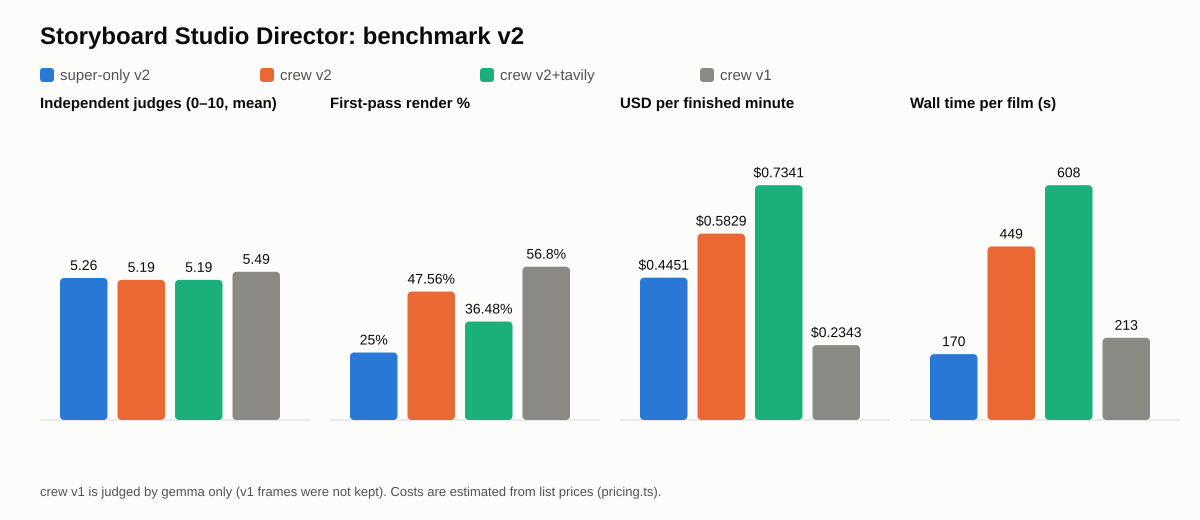
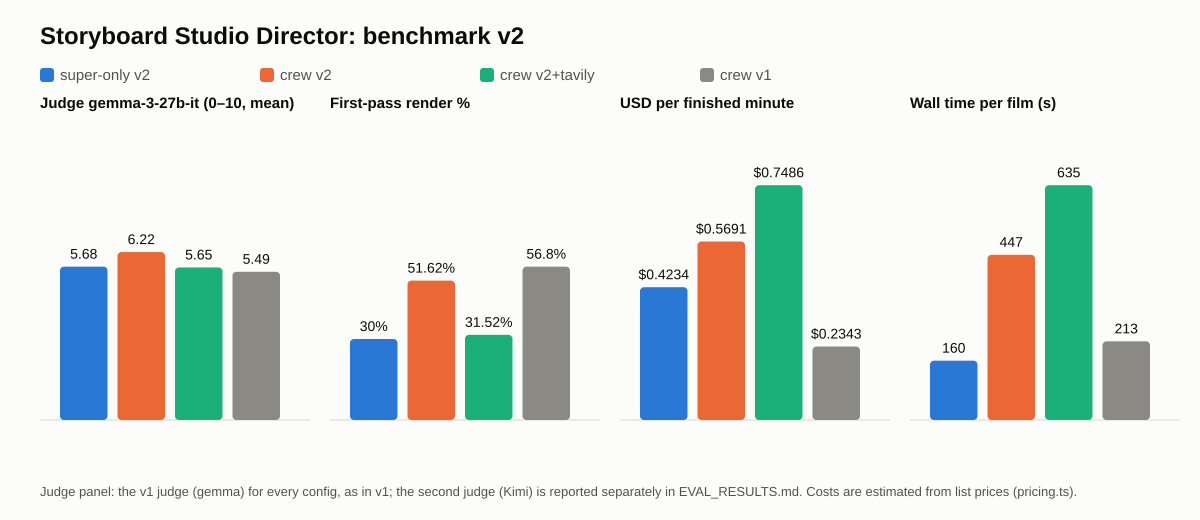
chore(eval): bench v2 complete: 30 of 30 runs on frozen 394a797 (report, chart, rows)
Claude-Session: https://claude.ai/code/session_01XowuYW5WQyZVayGQKumT27

diff --git a/docs/hackathon/EVAL_RESULTS.md b/docs/hackathon/EVAL_RESULTS.md
@@ -1,6 +1,6 @@
 # Director benchmark v2: results
 
-Generated 2026-10-15T03:15:18.628Z against `https://studio-production-049c.up.railway.app` · provider **nemotron** · eval commit `394a797` · 23 v2 runs · raw data: [eval/v2/runs.csv](eval/v2/runs.csv), [eval/v2/runs.jsonl](eval/v2/runs.jsonl). v1 results: [EVAL_RESULTS_V1.md](EVAL_RESULTS_V1.md).
+Generated 2026-10-16T02:17:58.253Z against `https://studio-production-049c.up.railway.app` · provider **nemotron** · eval commit `394a797` · 30 v2 runs · raw data: [eval/v2/runs.csv](eval/v2/runs.csv), [eval/v2/runs.jsonl](eval/v2/runs.jsonl). v1 results: [EVAL_RESULTS_V1.md](EVAL_RESULTS_V1.md).
 
 Same 10 prompts and the same judge prompt as v1. Configs: **super-only v2** = every role on Nemotron Super, no critic · **crew v2** = Ultra plans, Super draws, the hybrid critic (a VLM looks, Nemotron Nano scores, D33) with the floor, Nano edits · **crew v2+tavily** = crew v2 plus research (only when the server has a Tavily key) · **crew v1** = the v1 rows, reused, not re-run (judged by gemma only).
 
@@ -10,19 +10,19 @@ Same 10 prompts and the same judge prompt as v1. Configs: **super-only v2** = ev
 
 | Target | Goal | Measured | |
 |---|---|---|---|
-| Judge mean, crew v2 (gemma-3-27b-it, the v1 judge; crew v1 = 5.49) | ≥ 6.5 | 6.17 | ❌ missed |
-| Second judge, crew v2 (Kimi-K3, reported separately) | — | 4.21 | for information |
-| Crew v2 wins vs super-only v2 (paired, gemma-3-27b-it, ±0.25 = tie) | ≥ 8/10 | 5/7 | ❌ missed |
-| Critic uplift, independently judged | ≥ +0.5 | +0.44 | ❌ missed |
-| USD per finished minute, crew v2 | ≤ $0.40 | $0.583 | ❌ missed |
+| Judge mean, crew v2 (gemma-3-27b-it, the v1 judge; crew v1 = 5.49) | ≥ 6.5 | 6.22 | ❌ missed |
+| Second judge, crew v2 (Kimi-K3, reported separately) | — | 4.38 | for information |
+| Crew v2 wins vs super-only v2 (paired, gemma-3-27b-it, ±0.25 = tie) | ≥ 8/10 | 7/9 | ❌ missed |
+| Critic uplift, independently judged | ≥ +0.5 | +0.5 | ✅ met |
+| USD per finished minute, crew v2 | ≤ $0.40 | $0.569 | ❌ missed |
 
 ## By config
 
 | Config | Runs (done) | Mean of both judges (v2 only) |  Judge gemma-3-27b-it | Judge Kimi-K3 | First-pass % | Repairs / shot | Critic self-score | Uplift (judged) [shots] | Gate failures | Below floor | Wall s | Tokens / run | USD total | USD / finished min |
 |---|---|---|---|---|---|---|---|---|---|---|---|---|---|---|
-| super-only v2 | 8 (8) | 5.26 |  5.98 | 4.55 | 25 | 1.85 | — | — [0] | 6 | 0 | 170.49 | 60,467 | $0.328 | $0.445 |
-| crew v2 | 8 (7) | 5.19 |  6.17 | 4.21 | 47.56 | 1.71 | 4.91 → 5.48 | +0.44 [9] | 8 | 25 | 449.02 | 245,818 | $1.282 | $0.583 |
-| crew v2+tavily | 7 (5) | 5.19 |  6.13 | 4.25 | 36.48 | 2.38 | 4.76 → 5.44 | +0.42 [12] | 11 | 21 | 607.5 | 334,146 | $1.561 | $0.734 |
+| super-only v2 | 10 (10) | 4.96 |  5.68 | 4.24 | 30 | 1.58 | — | — [0] | 6 | 0 | 160.42 | 56,076 | $0.379 | $0.423 |
+| crew v2 | 10 (9) | 5.3 |  6.22 | 4.38 | 51.62 | 1.47 | 5.27 → 5.81 | +0.5 [13] | 8 | 28 | 446.74 | 245,588 | $1.595 | $0.569 |
+| crew v2+tavily | 10 (7) | 4.83 |  5.65 | 4.01 | 31.52 | 2.55 | 4.32 → 4.97 | +0.41 [16] | 15 | 30 | 634.92 | 348,583 | $2.263 | $0.749 |
 | crew v1 | 10 (10) | — |  5.49 | — | 56.8 | 1.53 | 6.92 → 7.07 | — [0] | 0 | 0 | 212.68 | 124,066 | $0.864 | $0.234 |
 
 ![Director benchmark v2 chart](eval/v2/chart.png)
@@ -33,20 +33,20 @@ Per config and judge: n = runs that judge scored, mean ± sample SD and the rang
 
 | Config | Judge | n | Mean | SD | Min–max |
 |---|---|---|---|---|---|
-| super-only v2 | gemma-3-27b-it (headline) | 8 | 5.98 | 1.58 | 4–8 |
-| super-only v2 | Kimi-K3 | 8 | 4.55 | 1.52 | 2.4–7 |
-| crew v2 | gemma-3-27b-it (headline) | 7 | 6.17 | 0.62 | 5–6.75 |
-| crew v2 | Kimi-K3 | 7 | 4.21 | 0.82 | 2.5–4.86 |
-| crew v2+tavily | gemma-3-27b-it (headline) | 6 | 6.13 | 0.49 | 5.6–6.8 |
-| crew v2+tavily | Kimi-K3 | 6 | 4.25 | 0.43 | 3.5–4.71 |
+| super-only v2 | gemma-3-27b-it (headline) | 10 | 5.68 | 1.68 | 3–8 |
+| super-only v2 | Kimi-K3 | 10 | 4.24 | 1.56 | 2–7 |
+| crew v2 | gemma-3-27b-it (headline) | 9 | 6.22 | 0.54 | 5–6.75 |
+| crew v2 | Kimi-K3 | 9 | 4.38 | 0.79 | 2.5–5 |
+| crew v2+tavily | gemma-3-27b-it (headline) | 9 | 5.65 | 1.1 | 3.5–6.8 |
+| crew v2+tavily | Kimi-K3 | 9 | 4.01 | 0.87 | 2–4.83 |
 | crew v1 | gemma-3-27b-it (headline) | 10 | 5.49 | 0.89 | 4–7 |
 | crew v1 | Kimi-K3 | 0 | — | — | — |
 
 | Config | Runs | Done | Failed (status) | Wall s mean | Wall s total | USD total |
 |---|---|---|---|---|---|---|
-| super-only v2 | 8 | 8 | 0 | 170.49 | 1363.91 | $0.328 |
-| crew v2 | 8 | 7 | 1 (vi-ao-dai: failed) | 449.02 | 3592.18 | $1.282 |
-| crew v2+tavily | 7 | 5 | 2 (en-robot-garden: failed; vi-ao-dai: budget_exceeded) | 607.5 | 4252.48 | $1.561 |
+| super-only v2 | 10 | 10 | 0 | 160.42 | 1604.19 | $0.379 |
+| crew v2 | 10 | 9 | 1 (vi-ao-dai: failed) | 446.74 | 4467.41 | $1.595 |
+| crew v2+tavily | 10 | 7 | 3 (en-robot-garden: failed; vi-ao-dai: budget_exceeded; ja-sakura: budget_exceeded) | 634.92 | 6349.18 | $2.263 |
 | crew v1 | 10 | 10 | 0 | 212.68 | 2126.79 | $0.864 |
 
 ## Reproduce
@@ -59,7 +59,7 @@ The bench refuses to start unless the server reports the eval commit, stops if i
 
 ## Paired: crew v2 vs super-only v2 (judge gemma-3-27b-it)
 
-crew v2 − super-only v2 on the same prompt: mean **+0.34**; crew v2 is better on **5**, worse on **2**, and ties (±0.25) on **0** of 7 prompts. 
+crew v2 − super-only v2 on the same prompt: mean **+0.68**; crew v2 is better on **7**, worse on **2**, and ties (±0.25) on **0** of 9 prompts. 
 
 | Prompt | super-only v2 | crew v2 | Δ |
 |---|---|---|---|
@@ -70,10 +70,12 @@ crew v2 − super-only v2 on the same prompt: mean **+0.34**; crew v2 is better 
 | vi-trau-vang | 5.6 | 6.2 | +0.6 |
 | vi-cho-noi | 8 | 6.71 | -1.29 |
 | ja-umbrella | 6 | 6.75 | +0.75 |
+| ja-tanuki | 6 | 6.33 | +0.33 |
+| ja-sakura | 3 | 6.43 | +3.43 |
 
 ## Paired: crew v2 vs super-only v2 (second judge Kimi-K3, reported separately)
 
-crew v2 − super-only v2 on the same prompt: mean **-0.28**; crew v2 is better on **2**, worse on **3**, and ties (±0.25) on **2** of 7 prompts. 
+crew v2 − super-only v2 on the same prompt: mean **+0.23**; crew v2 is better on **4**, worse on **3**, and ties (±0.25) on **2** of 9 prompts. 
 
 | Prompt | super-only v2 | crew v2 | Δ |
 |---|---|---|---|
@@ -84,10 +86,12 @@ crew v2 − super-only v2 on the same prompt: mean **-0.28**; crew v2 is better 
 | vi-trau-vang | 4 | 4.2 | +0.2 |
 | vi-cho-noi | 5 | 4.86 | -0.14 |
 | ja-umbrella | 6 | 4.5 | -1.5 |
+| ja-tanuki | 4 | 5 | +1 |
+| ja-sakura | 2 | 5 | +3 |
 
 ## Paired: crew v2 vs crew v1 (judge gemma-3-27b-it only, as in v1)
 
-crew v2 − crew v1 on the same prompt: mean **+0.64**; crew v2 is better on **4**, worse on **2**, and ties (±0.25) on **1** of 7 prompts. Same prompts, same judge, same judge prompt; v1 frames were not kept, so the second judge can't score v1.
+crew v2 − crew v1 on the same prompt: mean **+0.77**; crew v2 is better on **6**, worse on **2**, and ties (±0.25) on **1** of 9 prompts. Same prompts, same judge, same judge prompt; v1 frames were not kept, so the second judge can't score v1.
 
 | Prompt | crew v1 | crew v2 | Δ |
 |---|---|---|---|
@@ -98,6 +102,8 @@ crew v2 − crew v1 on the same prompt: mean **+0.64**; crew v2 is better on **4
 | vi-trau-vang | 7 | 6.2 | -0.8 |
 | vi-cho-noi | 4.71 | 6.71 | +2 |
 | ja-umbrella | 5.5 | 6.75 | +1.25 |
+| ja-tanuki | 4.83 | 6.33 | +1.5 |
+| ja-sakura | 5.5 | 6.43 | +0.93 |
 
 ## Per run
 
@@ -126,6 +132,13 @@ crew v2 − crew v1 on the same prompt: mean **+0.64**; crew v2 is better on **4
 | v2 | crew v2+tavily | vi-cho-noi | done | 7/7 | 5.64 |  6.57 | 4.71 | 42.86 | 3.57 | 5.29 → 6.43 | +0.5 [4] | 2 | 552 | $0.2967 |
 | v2 | super-only v2 | ja-umbrella | done | 1/1 | 6 |  6 | 6 | 0 | 3 | — → — | — [0] | 0 | 153.88 | $0.0343 |
 | v2 | crew v2 | ja-umbrella | done | 4/4 | 5.63 |  6.75 | 4.5 | 100 | 0 | 5.75 → 6.25 | +0.5 [1] | 0 | 573.46 | $0.1448 |
+| v2 | crew v2+tavily | ja-umbrella | done | 4/4 | 4 |  4.25 | 3.75 | 25 | 4.5 | 3 → 3.75 | +1 [2] | 1 | 677.16 | $0.2236 |
+| v2 | super-only v2 | ja-tanuki | done | 1/1 | 5 |  6 | 4 | 0 | 1 | — → — | — [0] | 0 | 133.42 | $0.0286 |
+| v2 | crew v2 | ja-tanuki | done | 6/6 | 5.67 |  6.33 | 5 | 50 | 0.5 | 7.33 → 7.67 | +0.5 [1] | 0 | 317.33 | $0.1156 |
+| v2 | crew v2+tavily | ja-tanuki | done | 6/6 | 5.58 |  6.33 | 4.83 | 16.67 | 4 | 5.33 → 5.83 | +0 [1] | 2 | 528.33 | $0.2133 |
+| v2 | super-only v2 | ja-sakura | done | 1/1 | 2.5 |  3 | 2 | 100 | 0 | — → — | — [0] | 0 | 106.86 | $0.0220 |
+| v2 | crew v2 | ja-sakura | done | 7/7 | 5.72 |  6.43 | 5 | 85.71 | 0.57 | 5.71 → 6.29 | +0.67 [3] | 0 | 557.9 | $0.1978 |
+| v2 | crew v2+tavily | ja-sakura | budget_exceeded | 2/11 | 2.75 |  3.5 | 2 | 18.18 | 0.36 | 2 → 2.5 | -0.5 [1] | 1 | 891.21 | $0.2658 |
 | v1 | crew v1 | en-lighthouse | done | 5/5 | — |  5.6 | — | 40 | 3.6 | 5 → 5 | — [0] | 0 | 253.91 | $0.1251 |
 | v1 | crew v1 | en-robot-garden | done | 6/6 | — |  6.67 | — | 0 | 7 | 3.33 → 3.83 | — [0] | 0 | 484.53 | $0.2288 |
 | v1 | crew v1 | en-paper-boat | done | 4/4 | — |  4 | — | 75 | 0.75 | 7.75 → 7.75 | — [0] | 0 | 152.01 | $0.0520 |
